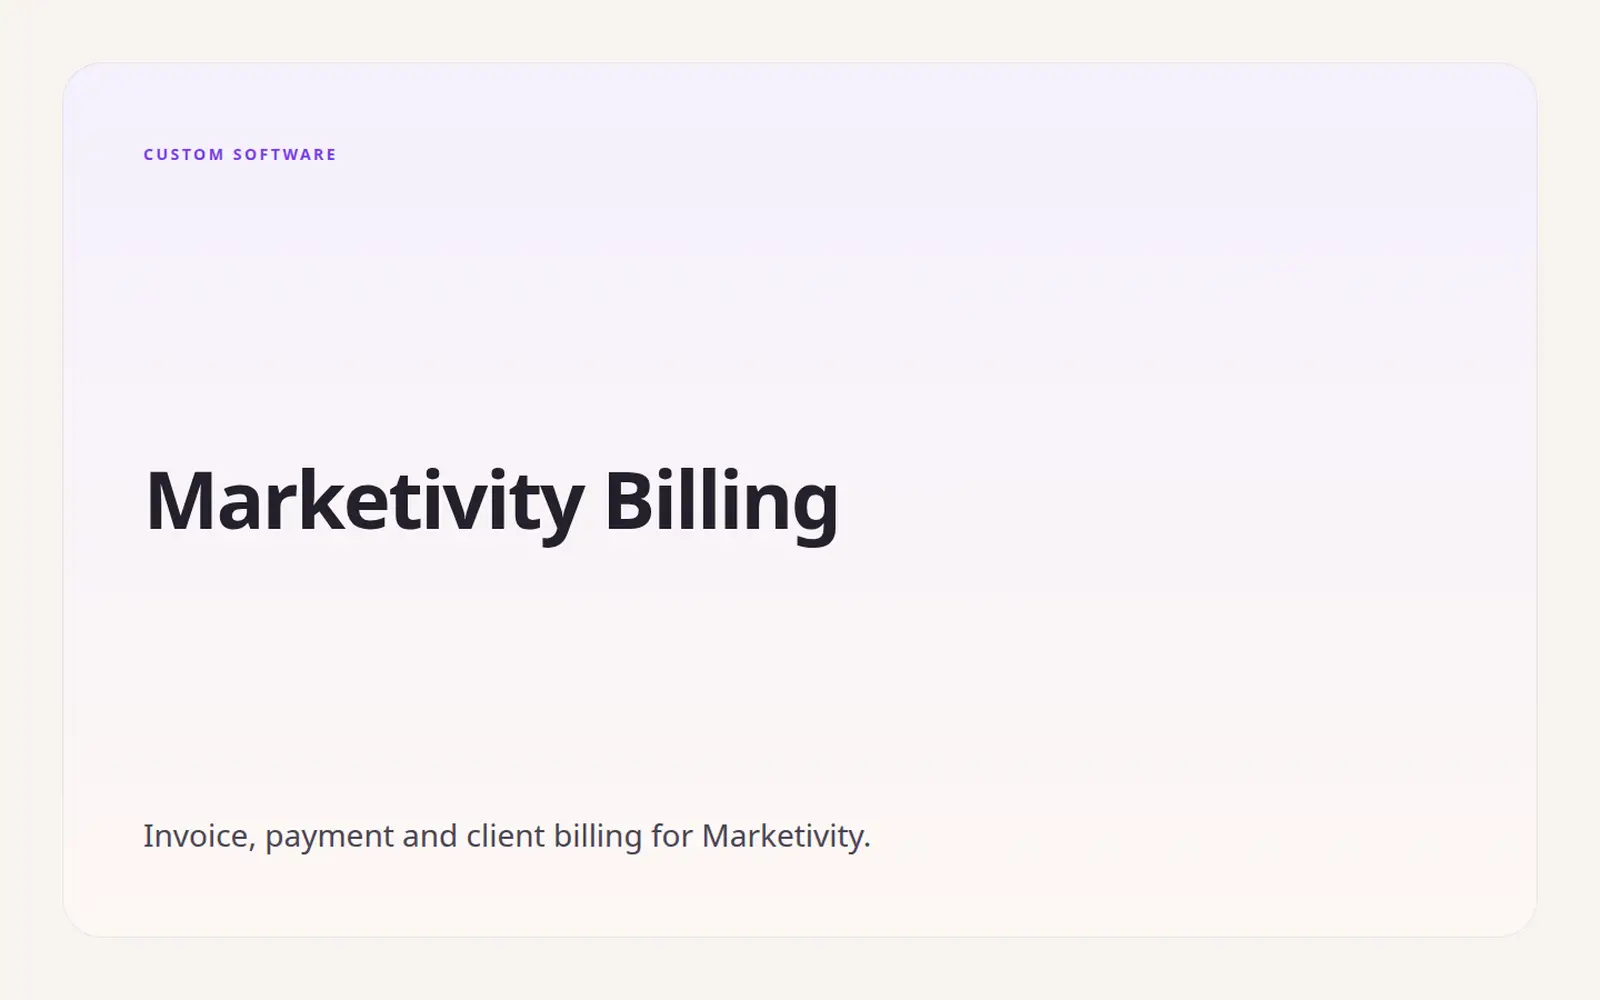
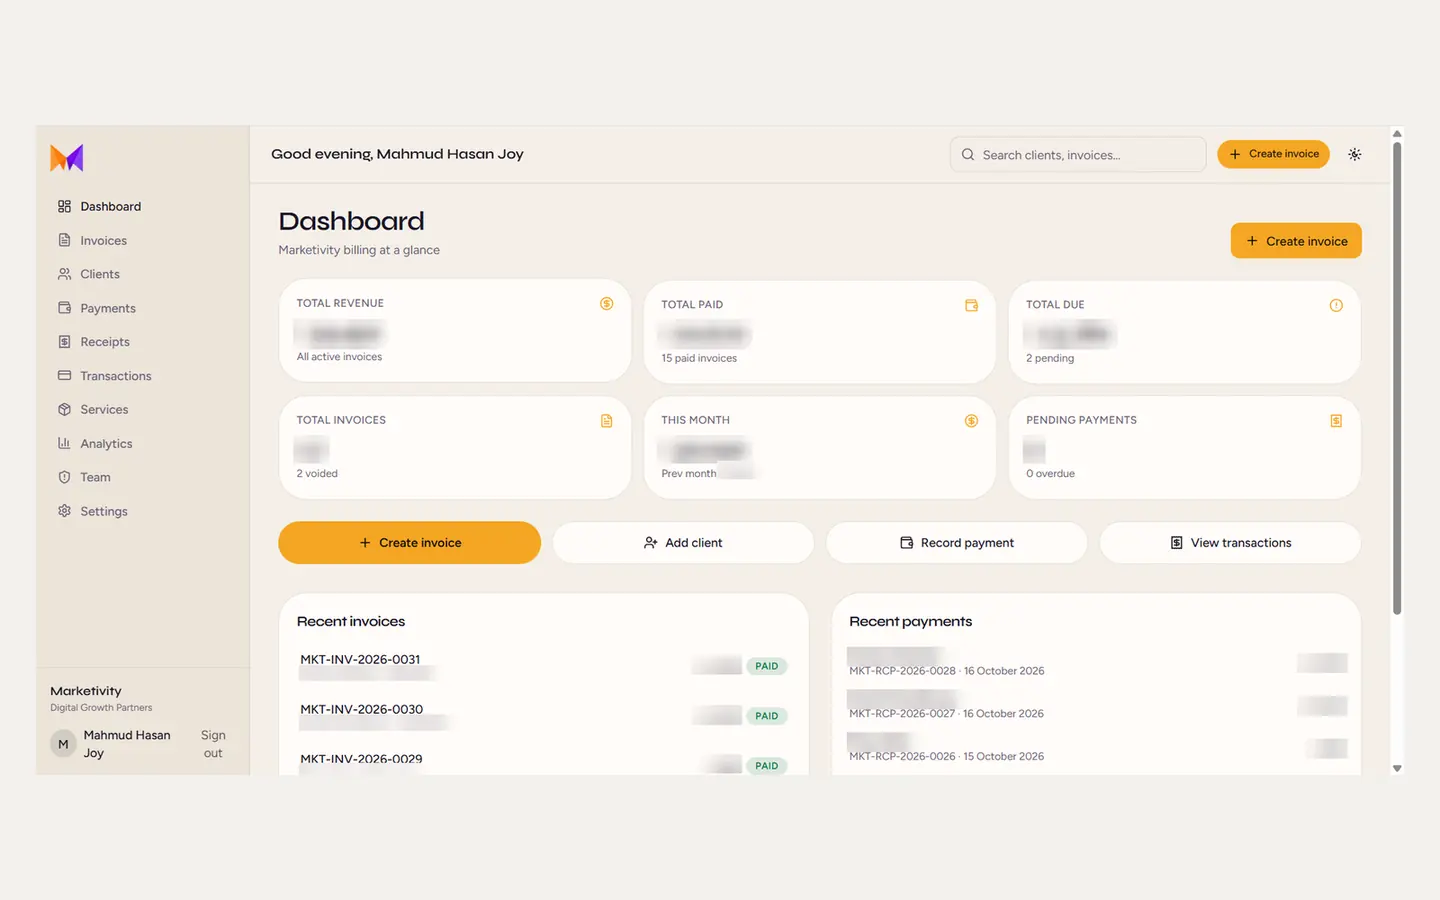
Use a real Marketivity Billing dashboard as the portfolio cover.
The Software card was a branded placeholder. The cover is now the billing dashboard screenshot, cropped to the card ratio.

diff --git a/src/lib/portfolio-items.ts b/src/lib/portfolio-items.ts
@@ -74,8 +74,8 @@ const softwareAndSites: PortfolioItem[] = [
     },
     cover: "/portfolio/marketivity-billing.webp",
     coverAlt: {
-      en: "Marketivity Billing screen",
-      bn: "মার্কেটিভিটি বিলিংয়ের স্ক্রিন",
+      en: "Marketivity Billing dashboard",
+      bn: "মার্কেটিভিটি বিলিংয়ের ড্যাশবোর্ড",
     },
     visit: { href: "https://marketivitybilling.vercel.app", kind: "demo" },
     resultNote: noUsage,
